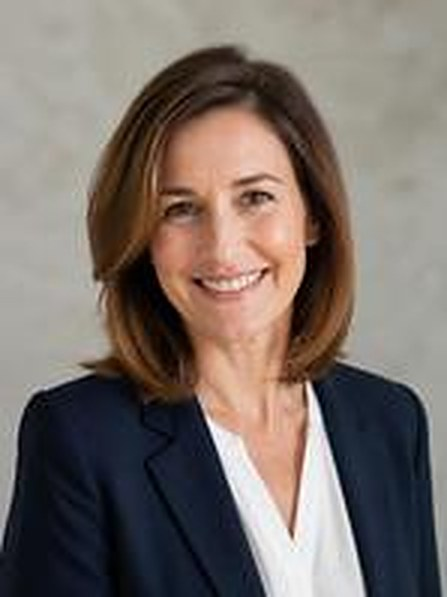
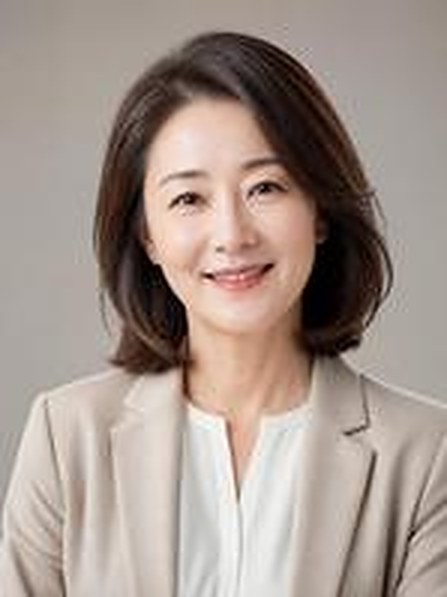
홈페이지 첫 화면: 한국 지도·한국인 강사 사진·휴대폰 화면 글자 크기 자동 조정
Claude-Session: https://claude.ai/code/session_016dzN3aLYd9RenSgt4MhUTw

diff --git a/src/main/resources/static/css/landing_v3.css b/src/main/resources/static/css/landing_v3.css
@@ -495,7 +495,7 @@ body { background: #f7f8fc; }
 .bi-page .nation-wrap { max-width: 1240px; margin: 0 auto; }
 .bi-page .nation-title { margin: 0 0 28px; font-size: clamp(30px, 5vw, 48px); font-weight: 600; letter-spacing: -.03em; line-height: 1.2; color: #fff; }
 .bi-page .nation-stage { position: relative; display: grid; grid-template-columns: 84px 280px minmax(0, 400px) minmax(0, 1fr); gap: 28px; align-items: center; min-height: 560px; padding: 32px; border-radius: 24px; overflow: hidden; background: linear-gradient(160deg, #082a2e, #041619); }
-.bi-page .nation-mapbox { position: absolute; right: 4%; top: 5%; height: 90%; aspect-ratio: 520 / 707; background: url('/img/landing/korea-dots.svg') center / contain no-repeat; opacity: .55; }
+.bi-page .nation-mapbox { position: absolute; right: 4%; top: 5%; height: 90%; aspect-ratio: 520 / 707; background: url('/img/landing/korea-dots.svg') center / contain no-repeat; opacity: .9; }
 .bi-page .nation-pin { position: absolute; width: 14px; height: 14px; margin: -7px 0 0 -7px; border-radius: 50%; background: #5ff2e1; box-shadow: 0 0 0 6px rgba(95, 242, 225, .25), 0 0 24px rgba(95, 242, 225, .8); transition: left .6s var(--v3-ease), top .6s var(--v3-ease); }
 .bi-page .nation-stage > :not(.nation-mapbox):not(.nation-center) { position: relative; z-index: 1; }
 .bi-page .nation-regions { margin: 0; padding: 0; list-style: none; display: flex; flex-direction: column; gap: 14px; }
@@ -513,10 +513,22 @@ body { background: #f7f8fc; }
 .bi-page .nation-pill { position: absolute; right: -24px; top: 66%; display: inline-flex; align-items: center; gap: 8px; padding: 6px 16px 6px 6px; border-radius: 999px; background: #f2fbfb; color: #0d2f31; font-size: 13px; font-weight: 600; white-space: nowrap; box-shadow: 0 8px 24px rgba(0, 0, 0, .3); }
 .bi-page .nation-pill b { padding: 5px 10px; border-radius: 999px; background: #0d2f31; color: #fff; font-size: 12px; }
 .bi-page .nation-panel { padding: 18px; border-radius: 16px; background: #fff; color: #14171f; box-shadow: 0 24px 60px rgba(0, 0, 0, .35); display: flex; flex-direction: column; gap: 14px; min-width: 0; }
-.bi-page .nation-devices { position: relative; padding-bottom: 28px; }
-.bi-page .nation-laptop { display: block; width: 100%; height: auto; aspect-ratio: 16 / 9; object-fit: cover; object-position: top; border: 1px solid #e3e6ea; border-radius: 8px; }
-.bi-page .nation-phone { position: absolute; right: 10px; bottom: 0; width: 76px; aspect-ratio: 9 / 16; overflow: hidden; border: 4px solid #111; border-radius: 14px; background: #fff; box-shadow: 0 10px 24px rgba(0, 0, 0, .3); }
-.bi-page .nation-phone img { width: 100%; height: 100%; object-fit: cover; object-position: 30% top; }
+.bi-page .nation-devices { position: relative; padding-bottom: 96px; }
+.bi-page .nation-laptop { display: block; width: 86%; height: auto; aspect-ratio: 16 / 9; object-fit: cover; object-position: top; border: 1px solid #e3e6ea; border-radius: 8px; }
+.bi-page .nation-phone { position: absolute; right: 8px; bottom: 0; width: 140px; aspect-ratio: 9 / 19; container-type: inline-size; overflow: hidden; border: 4px solid #111; border-radius: 22px; background: #f6f5ee; color: #17432f; box-shadow: 0 14px 32px rgba(0, 0, 0, .35); }
+.bi-page .np-screen { height: 100%; box-sizing: border-box; display: flex; flex-direction: column; gap: 5cqw; padding: 6cqw; }
+.bi-page .np-top { display: flex; align-items: center; justify-content: space-between; font-size: 6cqw; }
+.bi-page .np-logo { display: inline-flex; align-items: center; gap: 2cqw; font-weight: 800; letter-spacing: -.02em; }
+.bi-page .np-logo i { width: 5cqw; height: 5cqw; border-radius: 50%; background: #17432f; }
+.bi-page .np-top em { font-style: normal; font-size: 8cqw; line-height: 1; }
+.bi-page .np-chip { align-self: flex-start; padding: 1.6cqw 3.6cqw; border-radius: 999px; background: #e6efc4; font-size: 5.2cqw; font-weight: 700; }
+.bi-page .np-h { font-size: 11.5cqw; font-weight: 800; line-height: 1.22; letter-spacing: -.04em; }
+.bi-page .np-h u { text-decoration: none; background: linear-gradient(transparent 62%, #cde86b 62%); }
+.bi-page .np-sub { font-size: 5.6cqw; line-height: 1.4; color: #5d6b5f; }
+.bi-page .np-btn { padding: 3.2cqw 0; border-radius: 999px; background: #17432f; color: #fff; font-size: 5.8cqw; font-weight: 700; text-align: center; }
+.bi-page .np-teacher { position: relative; margin-top: auto; display: flex; align-items: center; gap: 3cqw; padding: 3cqw; border-radius: 4cqw; background: #fff; font-size: 5.2cqw; font-weight: 700; }
+.bi-page .nation-mini { display: none; width: 15cqw; height: 15cqw; flex: none; object-fit: cover; object-position: top; border-radius: 50%; }
+.bi-page .nation-mini.on { display: block; }
 .bi-page .nation-courses { margin: 0; padding: 0; list-style: none; display: flex; flex-direction: column; gap: 8px; font-size: 13px; }
 .bi-page .nation-courses li { display: flex; align-items: center; gap: 10px; padding: 9px 12px; border-radius: 8px; background: #f3f5f7; }
 .bi-page .nation-courses span { padding: 2px 8px; border-radius: 6px; background: #1b3a3a; color: #fff; font-size: 11px; font-weight: 700; }

diff --git a/src/main/resources/templates/public/landing.html b/src/main/resources/templates/public/landing.html
@@ -73,7 +73,14 @@
         <div class="nation-panel">
           <div class="nation-devices">
             <img class="nation-laptop" src="/img/landing/templates/template-dark-course.jpg" alt="학원 홈페이지 화면 예시" width="1400" height="810" loading="lazy">
-            <span class="nation-phone"><img src="/img/landing/templates/template-light-academy.jpg" alt="모바일 화면 예시" width="1400" height="810" loading="lazy"></span>
+            <div class="nation-phone" aria-label="모바일 화면 예시"><div class="np-screen">
+              <div class="np-top"><b class="np-logo"><i></i>디지털영어학원</b><em>≡</em></div>
+              <div class="np-chip">온라인 영어 수업</div>
+              <div class="np-h">영어의 첫걸음,<br><u>지금 시작합니다.</u></div>
+              <div class="np-sub">레벨 테스트부터 맞춤 수업까지</div>
+              <div class="np-btn">무료 레벨 테스트</div>
+              <div class="np-teacher"><img class="nation-mini on" src="/img/landing/teachers/teacher-seoul.jpg" alt="" width="447" height="597"><img class="nation-mini" src="/img/landing/teachers/teacher-busan.jpg" alt="" width="447" height="597"><img class="nation-mini" src="/img/landing/teachers/teacher-daegu.jpg" alt="" width="447" height="597"><img class="nation-mini" src="/img/landing/teachers/teacher-gwangju.jpg" alt="" width="447" height="597"><span>담당 선생님</span></div>
+            </div></div>
           </div>
           <ul class="nation-courses">
             <li><span>초등</span>파닉스 · 기초 회화</li>

diff --git a/src/main/resources/static/js/landing_v3.js b/src/main/resources/static/js/landing_v3.js
@@ -150,6 +150,7 @@
     if (!root) return;
     var regions = Array.prototype.slice.call(root.querySelectorAll('[data-nation-region]'));
     var photos = Array.prototype.slice.call(root.querySelectorAll('.nation-photo'));
+    var minis = Array.prototype.slice.call(root.querySelectorAll('.nation-mini'));
     var pin = root.querySelector('[data-nation-pin]');
     var chip = root.querySelector('[data-nation-chip]');
     if (regions.length < 2) return;
@@ -163,6 +164,7 @@
         r.setAttribute('aria-pressed', String(on));
       });
       photos.forEach(function (p, i) { p.classList.toggle('on', i === index); });
+      minis.forEach(function (m, i) { m.classList.toggle('on', i === index); });
       var region = regions[index];
       if (pin) {
         pin.style.left = region.getAttribute('data-x') + '%';
